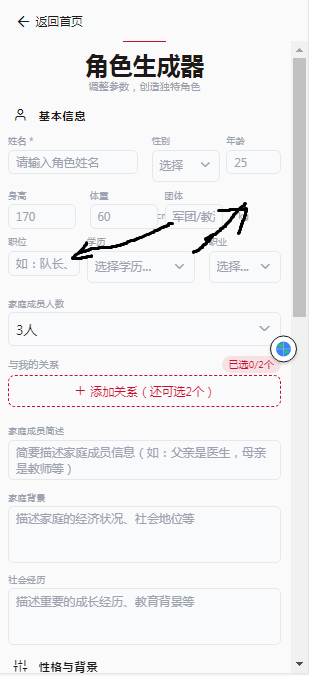
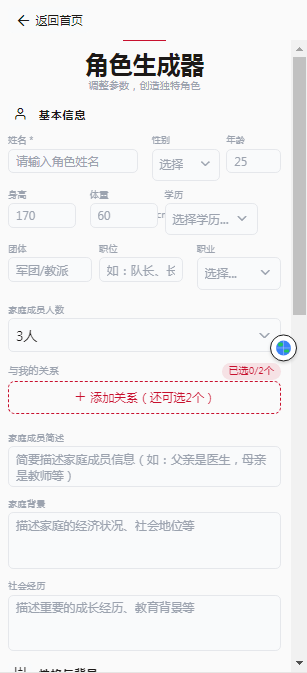
fix: 修复角色生成器UI问题和API调用失败

diff --git a/client/screens/character-result/index.tsx b/client/screens/character-result/index.tsx
@@ -25,9 +25,9 @@ import {
   generateId,
 } from '@/utils/characterStorage';
 
-// 临时使用线上地址测试
-const EXPO_PUBLIC_BACKEND_BASE_URL = 'http://localhost:9091';
-console.log('Character result page - Backend URL:', EXPO_PUBLIC_BACKEND_BASE_URL);
+// 使用相对路径，通过Metro代理到后端
+const API_BASE_URL = '/api/v1';
+console.log('Character result page - API Base URL:', API_BASE_URL);
 
 // 关系类型定义
 const RELATION_TYPES = [
@@ -115,7 +115,7 @@ export default function CharacterResultScreen() {
        *          memberCount: string, familyRelation: string, familyMembersBrief: string,
        *          familyBackground: string, socialExperience: string
        */
-      const response = await fetch(`${EXPO_PUBLIC_BACKEND_BASE_URL}/api/v1/character/generate`, {
+      const response = await fetch(`${API_BASE_URL}/character/generate`, {
         method: 'POST',
         headers: {
           'Content-Type': 'application/json',
@@ -172,7 +172,7 @@ export default function CharacterResultScreen() {
          * Body 参数：name: string, gender: string, age: string, height: string, weight: string,
          *          occupation: string, appearance: string, personality: string
          */
-        const avatarResponse = await fetch(`${EXPO_PUBLIC_BACKEND_BASE_URL}/api/v1/character/generate-avatar`, {
+        const avatarResponse = await fetch(`${API_BASE_URL}/character/generate-avatar`, {
           method: 'POST',
           headers: {
             'Content-Type': 'application/json',
@@ -288,7 +288,7 @@ export default function CharacterResultScreen() {
     setShowRelationModal(false);
 
     try {
-      const response = await fetch(`${EXPO_PUBLIC_BACKEND_BASE_URL}/api/v1/character/generate-npc`, {
+      const response = await fetch(`${API_BASE_URL}/character/generate-npc`, {
         method: 'POST',
         headers: {
           'Content-Type': 'application/json',

diff --git a/client/screens/character/styles.ts b/client/screens/character/styles.ts
@@ -78,6 +78,7 @@ export const createStyles = (theme: Theme) => {
       color: theme.textPrimary,
       borderWidth: 1,
       borderColor: theme.border,
+      minHeight: 38,
     },
     inputWithSuffix: {
       flexDirection: 'row',
@@ -86,6 +87,7 @@ export const createStyles = (theme: Theme) => {
       borderRadius: 6,
       borderWidth: 1,
       borderColor: theme.border,
+      minHeight: 38,
     },
     textInputWithSuffix: {
       flex: 1,
@@ -93,11 +95,16 @@ export const createStyles = (theme: Theme) => {
       paddingVertical: Spacing.xs,
       fontSize: 14,
       color: theme.textPrimary,
+      minHeight: 38,
+      borderWidth: 0,
+      backgroundColor: 'transparent',
     },
     suffixText: {
       paddingHorizontal: Spacing.sm,
       paddingVertical: Spacing.xs,
       fontSize: 12,
+      lineHeight: 38,
+      textAlignVertical: 'center',
     },
     occupationSelector: {
       backgroundColor: theme.backgroundTertiary,

diff --git a/client/screens/novel-import/index.tsx b/client/screens/novel-import/index.tsx
@@ -33,7 +33,8 @@ import {
 import { createFormDataFile } from '@/utils';
 
 // 临时使用线上地址测试
-const EXPO_PUBLIC_BACKEND_BASE_URL = 'http://localhost:9091';
+// 使用相对路径，通过Metro代理到后端
+const API_BASE_URL = '/api/v1';
 
 // 使用技巧列表
 const TIPS_DATA = [
@@ -401,7 +402,7 @@ export default function NovelImportScreen() {
        * 接口：POST /api/v1/import/analyze
        * Body 参数：FormData with file field
        */
-      const response = await fetch(`${EXPO_PUBLIC_BACKEND_BASE_URL}/api/v1/import/analyze`, {
+      const response = await fetch(`${API_BASE_URL}/import/analyze`, {
         method: 'POST',
         body: formData,
         signal: controller.signal,
